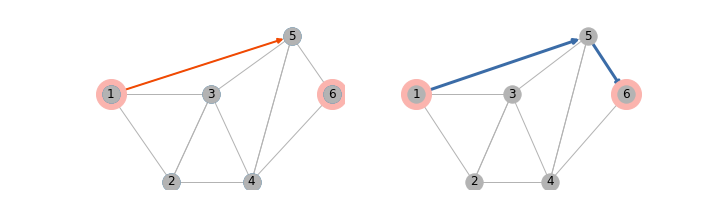
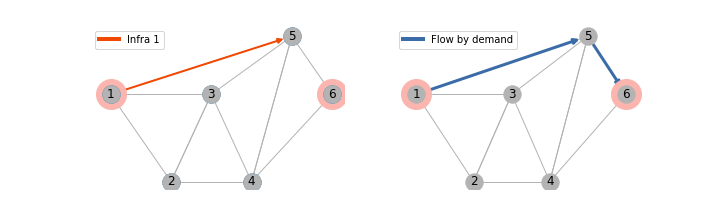
add legend to some document's drawings

Changed region(s): [[0.55, 0.1389, 0.7333, 0.25], [0.1222, 0.1389, 0.2444, 0.1944], [0.1222, 0.2222, 0.2139, 0.25]]

diff --git a/thesis/doc/document.tex b/thesis/doc/document.tex
@@ -545,7 +545,7 @@
 
   \begin{figure}[h!]
     \centering
-    \includegraphics[width=8cm]{../resources/example_2_base.png}
+    \includegraphics[width=6cm]{../resources/example_2_base.png}
       \caption{Red utilizada para el ejemplo de beneficio de variantes multiobjetivo. Los costos en los arcos utilizados según la descripción del problema. El camino más corto sobre el grafo base es el (1, 5), (5, 6) de costo 6.}
     \label{fig:example2base}
   \end{figure}

diff --git a/bcnetwork/draw.py b/bcnetwork/draw.py
@@ -164,6 +164,7 @@ def draw(
         odpairs_legend=True,
         infrastructures_legend=True,
         flows_legend=True,
+        legend_location='best',
         **kwargs):
     """
     Draw a model's graph and its solution if applies.
@@ -406,7 +407,7 @@ def draw(
         )
 
     if legend_handles:
-        ax.legend(handles=legend_handles)
+        ax.legend(handles=legend_handles, loc=legend_location)
 
 
 def main(args):
